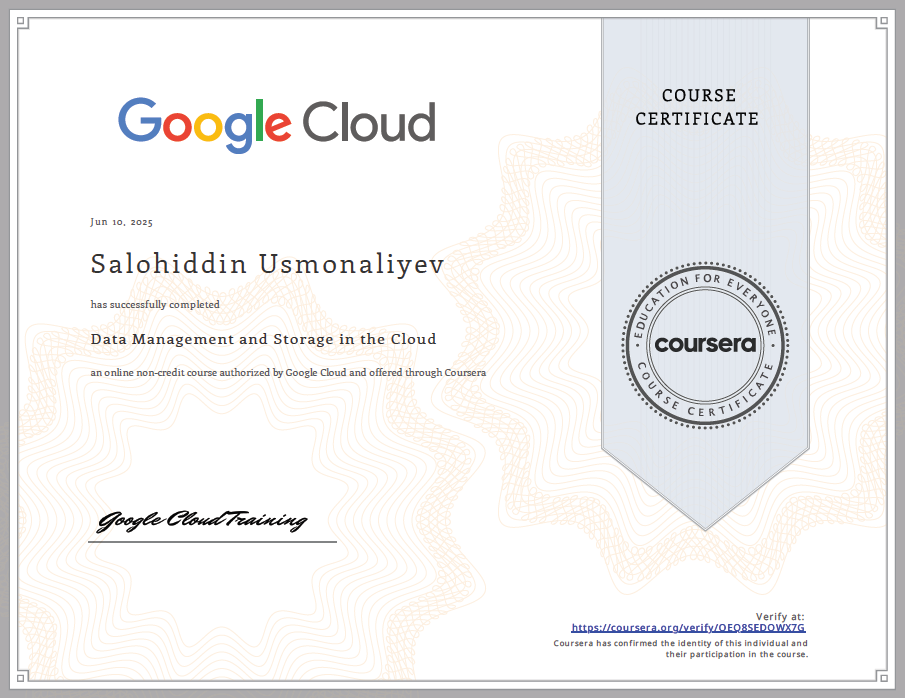
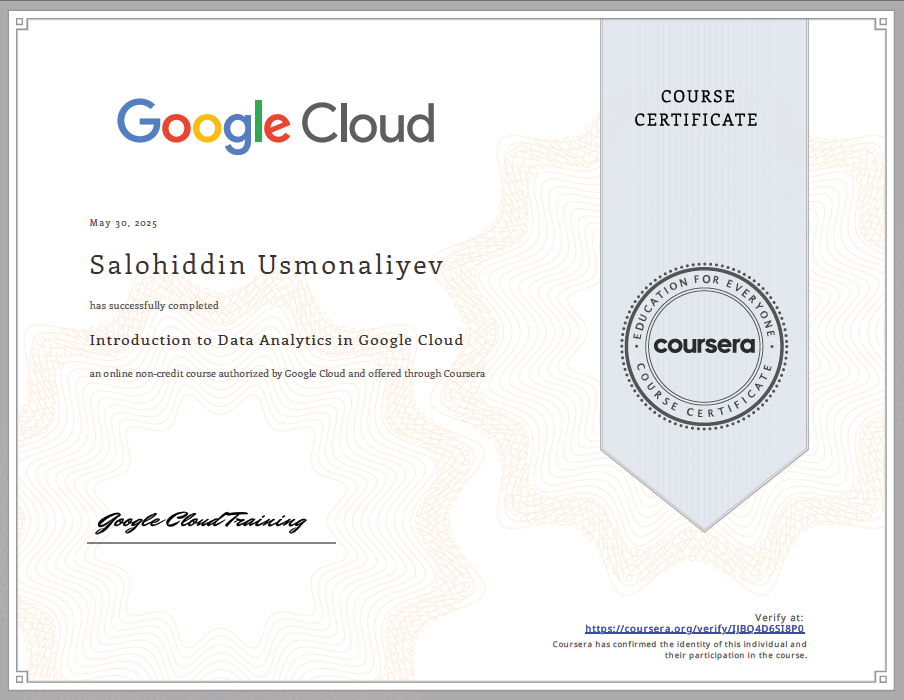
updated certificates

diff --git a/index.html b/index.html
@@ -347,12 +347,26 @@
             </div>
 
             <div class="row project-masonry-active">
-                <!-- Certificate 1 -->
                 <div class="col-lg-4 col-md-6 item certificate">
                     <div class="project-item style-two wow fadeInUp delay-0-3s">
                         <div class="project-image">
-                            <img src="assets/images/certificates/certificate1.jpg" alt="Python Certificate">
-                            <a href="assets/images/certificates/certificate1.jpg" class="details-btn work-popup">
+                            <img src="assets/images/certificates/certificate1.png" alt="Python Certificate">
+                            <a href="assets/images/certificates/certificate1.png" class="details-btn work-popup">
+                                <i class="ri-arrow-right-up-line"></i>
+                            </a>
+                        </div>
+                        <div class="project-content">
+                            <span class="sub-title">Udacity · January 2022</span>
+                            <h3>Android Development Track</h3>
+                        </div>
+                    </div>
+                </div>
+
+                <div class="col-lg-4 col-md-6 item certificate">
+                    <div class="project-item style-two wow fadeInUp delay-0-3s">
+                        <div class="project-image">
+                            <img src="assets/images/certificates/certificate2.jpg" alt="Python Certificate">
+                            <a href="assets/images/certificates/certificate2.jpg" class="details-btn work-popup">
                                 <i class="ri-arrow-right-up-line"></i>
                             </a>
                         </div>
@@ -363,12 +377,11 @@
                     </div>
                 </div>
 
-                <!-- Certificate 2 -->
                 <div class="col-lg-4 col-md-6 item certificate">
                     <div class="project-item style-two wow fadeInUp delay-0-4s">
                         <div class="project-image">
-                            <img src="assets/images/certificates/certificate2.png" alt="IELTS Certificate">
-                            <a href="assets/images/certificates/certificate2.png" class="details-btn work-popup">
+                            <img src="assets/images/certificates/certificate3.png" alt="IELTS Certificate">
+                            <a href="assets/images/certificates/certificate3.png" class="details-btn work-popup">
                                 <i class="ri-arrow-right-up-line"></i>
                             </a>
                         </div>
@@ -379,21 +392,6 @@
                     </div>
                 </div>
 
-                <!-- Certificate 3 -->
-                <div class="col-lg-4 col-md-6 item certificate">
-                    <div class="project-item style-two wow fadeInUp delay-0-5s">
-                        <div class="project-image">
-                            <img src="assets/images/certificates/certificate3.png" alt="Data Analytics Certificate">
-                            <a href="assets/images/certificates/certificate3.png" class="details-btn work-popup">
-                                <i class="ri-arrow-right-up-line"></i>
-                            </a>
-                        </div>
-                        <div class="project-content">
-                            <span class="sub-title">Coursera · May 2025</span>
-                            <h3>Introduction to Data Analytics</h3>
-                        </div>
-                    </div>
-                </div>
                 <div class="col-lg-4 col-md-6 item certificate">
                     <div class="project-item style-two wow fadeInUp delay-0-5s">
                         <div class="project-image">
@@ -404,10 +402,41 @@
                         </div>
                         <div class="project-content">
                             <span class="sub-title">Coursera · May 2025</span>
+                            <h3>Introduction to Data Analytics</h3>
+                        </div>
+                    </div>
+                </div>
+
+                <div class="col-lg-4 col-md-6 item certificate">
+                    <div class="project-item style-two wow fadeInUp delay-0-5s">
+                        <div class="project-image">
+                            <img src="assets/images/certificates/certificate5.png" alt="Data Analytics Certificate">
+                            <a href="assets/images/certificates/certificate5.png" class="details-btn work-popup">
+                                <i class="ri-arrow-right-up-line"></i>
+                            </a>
+                        </div>
+                        <div class="project-content">
+                            <span class="sub-title">Coursera · June 2025</span>
                             <h3>Data Management and Storage in the Cloud</h3>
                         </div>
                     </div>
                 </div>
+
+                <div class="col-lg-4 col-md-6 item certificate">
+                    <div class="project-item style-two wow fadeInUp delay-0-4s">
+                        <div class="project-image">
+                            <img src="assets/images/certificates/certificate6.png" alt="IELTS Certificate">
+                            <a href="assets/images/certificates/certificate6.png" class="details-btn work-popup">
+                                <i class="ri-arrow-right-up-line"></i>
+                            </a>
+                        </div>
+                        <div class="project-content">
+                            <span class="sub-title">Coursera · June 2025</span>
+                            <h3>Data Transformation in the Cloud</h3>
+                        </div>
+                    </div>
+                </div>
+
             </div>
         </div>
     </div>
